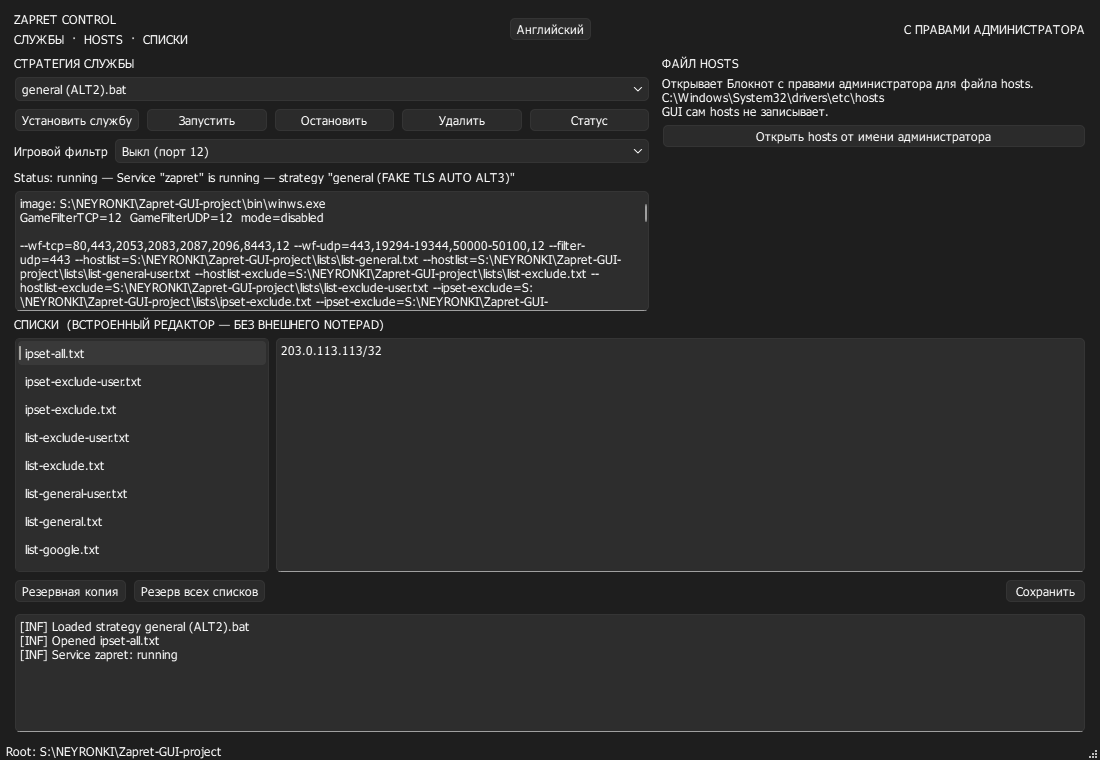
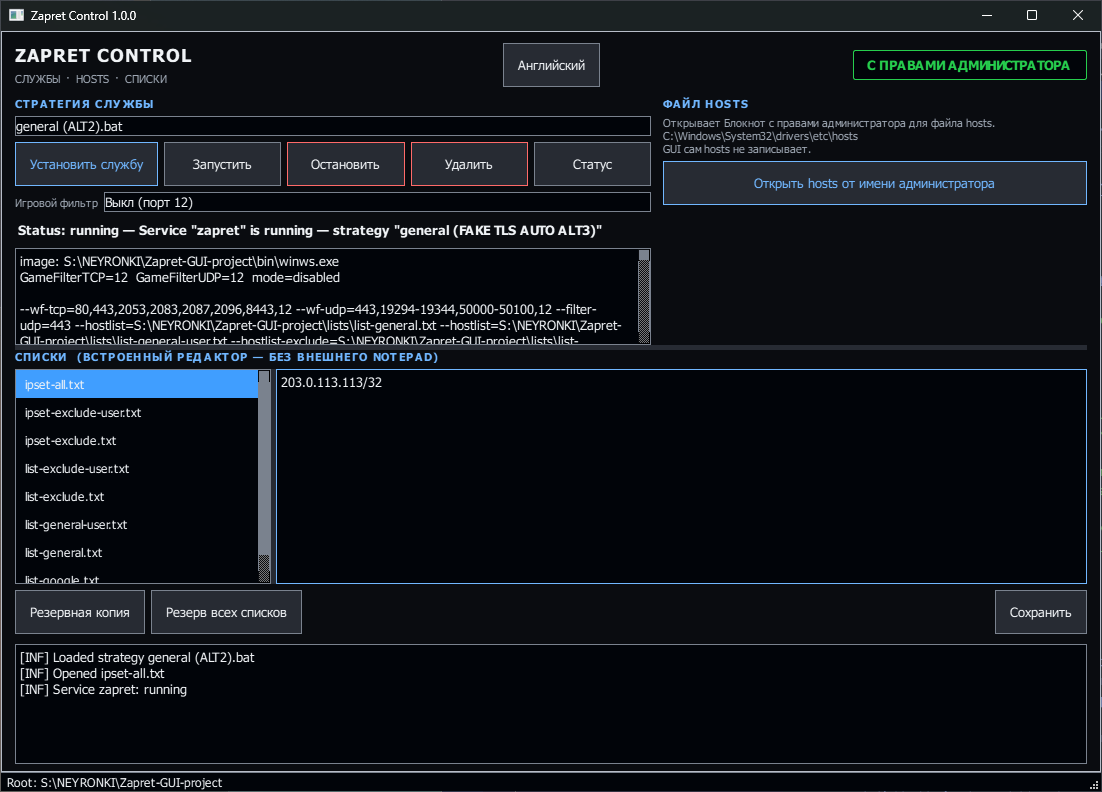
Update GUI screenshot and add defensive troubleshooting meme spoiler to README

diff --git a/README.md b/README.md
@@ -17,6 +17,17 @@
 > - Бессмысленные **Pull Requests** и **Issues** с требованиями «добавьте вот такую фичу», «переделайте дизайн», «перепишите на Electron/C#/Go» рассматриваться не будут и закрываются сразу.
 > - Код распространяется по принципу **«КАК ЕСТЬ» (AS IS)**. У автора всё работает так, как было задумано — следовательно, цель проекта полностью достигнута.
 
+<details>
+<summary><b>🔧 Универсальная инструкция по решению проблемы «У меня ничего не работает»:</b></summary>
+
+<br>
+
+<p align="center">
+  <img src="assets/it_works_for_me.png" alt="ВОТ У МЕНЯ ВСЁ РАБОТАЕТ" width="750">
+</p>
+
+</details>
+
 ---
 
 ## ⚡ Описание и возможности GUI
